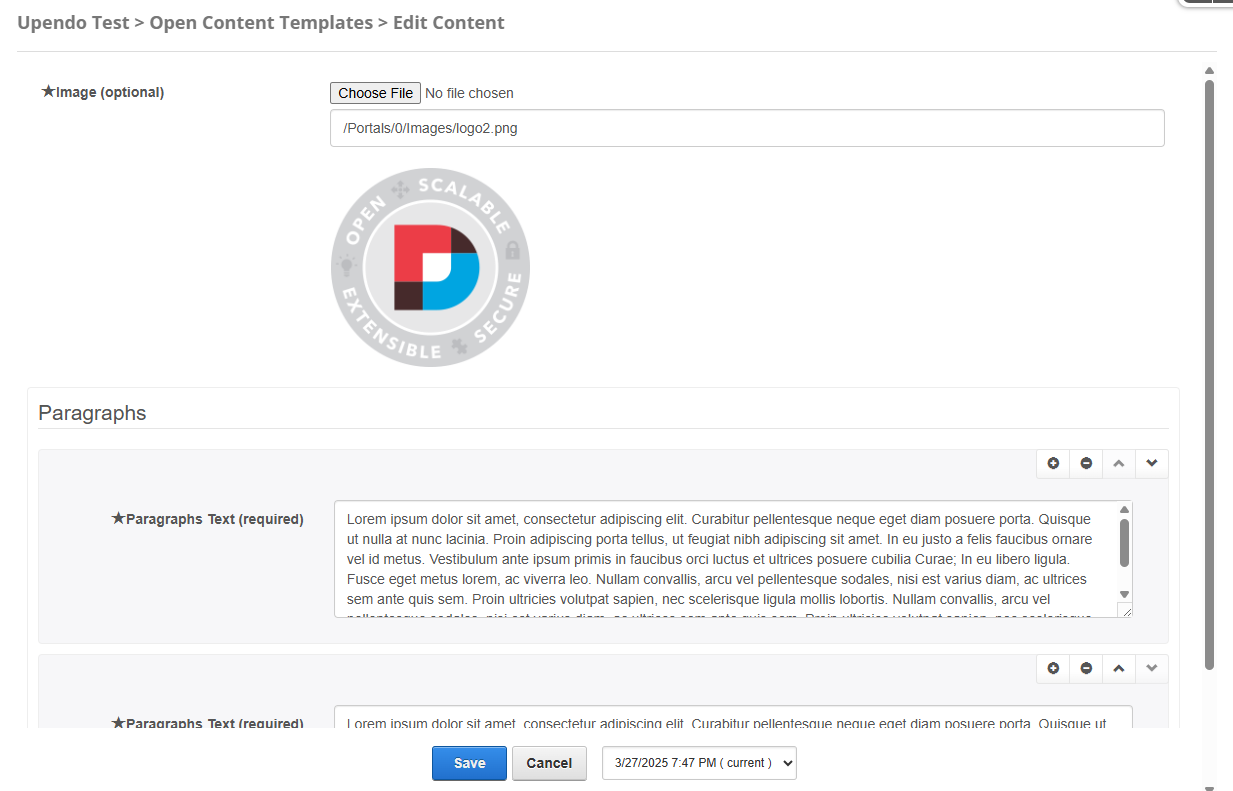
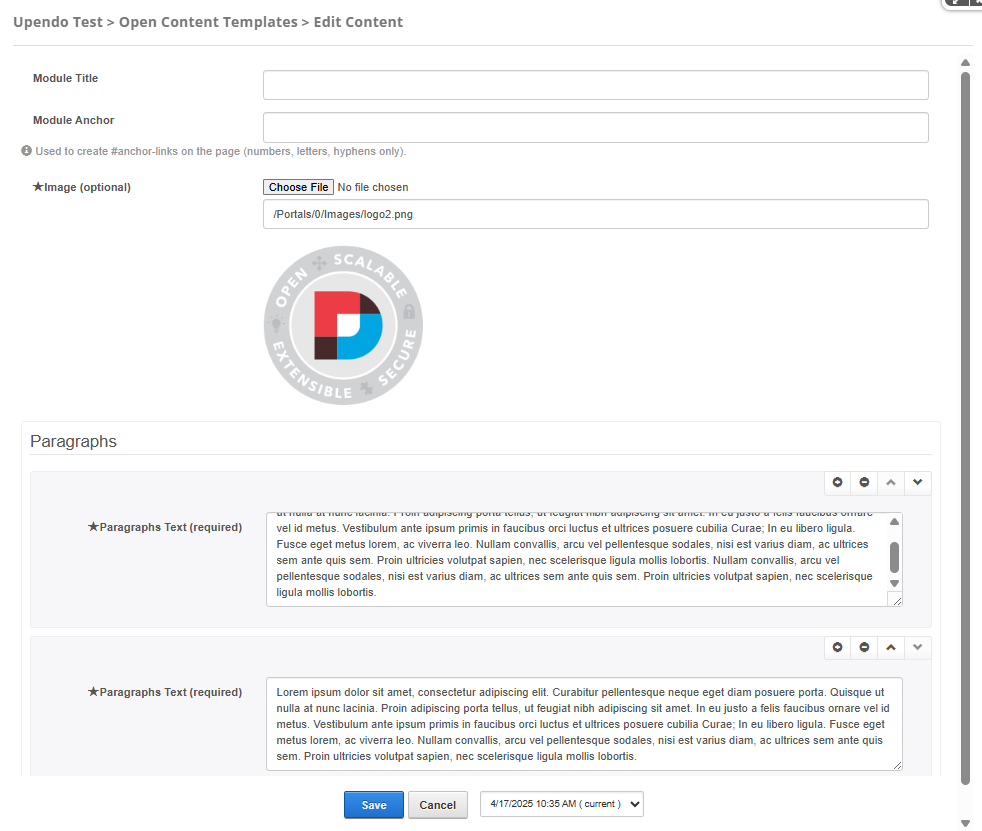
Update Porto-Animations Doc

diff --git a/Porto-Animations/Porto-Animations.html b/Porto-Animations/Porto-Animations.html
@@ -63,8 +63,6 @@
         /* Component Image */
         .component-image {
             width: 100%;
-            max-width: 900px;
-            margin: 10px 0;
             border-radius: 10px;
             box-shadow: 0 4px 8px rgba(0, 0, 0, 0.1);
         }
@@ -177,6 +175,11 @@
             color: #333333;
             margin-top: 10px;
         }
+
+        code {
+            font-size: large;
+            color: #6d5a2c;
+        }
     </style>
 </head>
 
@@ -229,6 +232,19 @@
                 </tr>
             </thead>
             <tbody>
+                <tr>
+                    <td>Module Title</td>
+                    <td>String</td>
+                    <td>Used to define the title of the module. This title is displayed in the DNN administration interface to
+                        help identify the module.</td>
+                </tr>
+                <tr>
+                    <td>Module Anchor</td>
+                    <td>String</td>
+                    <td>Used to create anchor links on the page. This allows users to link directly to the module using a unique
+                        identifier.
+                        Only letters, numbers, and hyphens are allowed.</td>
+                </tr>
                 <tr>
                     <td>Image</td>
                     <td>Image</td>
